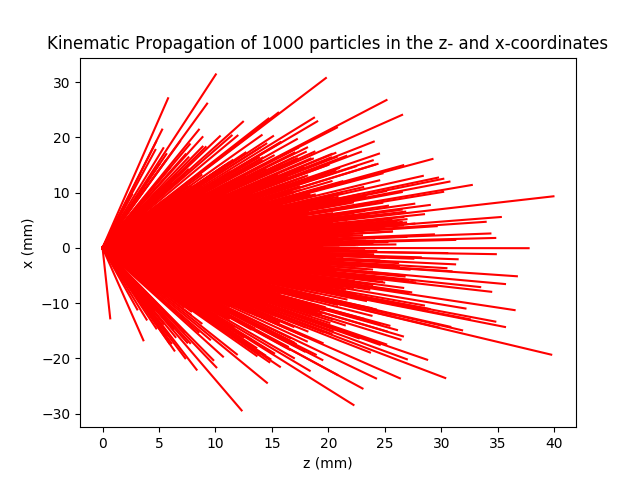
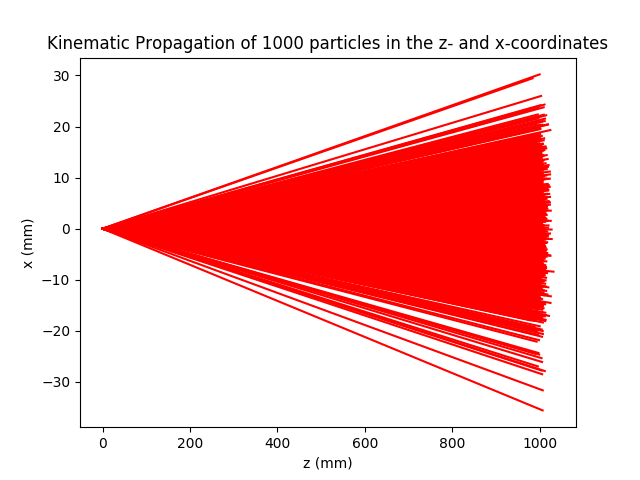
minor refactoring

diff --git a/mc_particle_trajectory.py b/mc_particle_trajectory.py
@@ -52,7 +52,7 @@ class Point():
 for i in range(n):
     particles.append(Point(np.array([0.0, 0.0, 0.0]), \
         np.array([np.random.standard_normal(), \
-        np.random.standard_normal(), maxwell.rvs()]), 1.0))
+        np.random.standard_normal(), np.random.normal(loc=100.0, scale=1.0)]), 1.0))
 
 # Store original points in x- and y-coordinates
 z = []
@@ -65,12 +65,12 @@ for i in range(n):
 # Kinematic propagation
 # -----------------------------------------------------------------------------
 
-# Will propagate for 5 s, 0.1 s timesteps
+# Will propagate for 5 s, 0.05 s timesteps
 for step in np.linspace(0, 1, num=100, endpoint=False):
     for i in range(0, n):
         particles[i].move(dt)
 
-# Trace the trajectories of the particles (just look at x- and y-coordinates)
+# Trace the trajectories of the particles (just look at x- and z-coordinates)
 for i in range(0, n):
     z[i].append(particles[i].coords[2])
     x[i].append(particles[i].coords[0])
@@ -80,7 +80,9 @@ plt.xlabel('z (mm)')
 plt.ylabel('x (mm)')
 plt.title('Kinematic Propagation of {} particles in the z- and x-coordinates'\
     .format(n))
-plt.savefig('/Users/andrewwinnicki/desktop/andrew/2019-2020/Doyle Lab/Modeling Project/Particle Trajectory Plots/{}_kinematic_{}.png'.format(n, datetime.date.today()))
+# Save figure
+# plt.savefig('/Users/andrewwinnicki/desktop/andrew/2019-2020/Doyle Lab/Modeling Project/Particle Trajectory Plots/{}_kinematic_{}.png'.format(n, datetime.date.today()))
+plt.show()
 
 # -----------------------------------------------------------------------------
 # Deflection by force field
